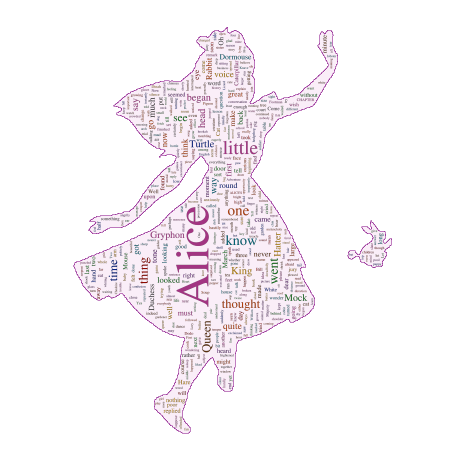
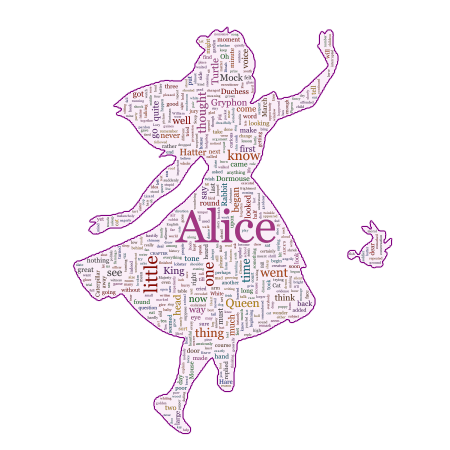
outline: normalize linewidth and smoothness

Changed region(s): [[0.1556, 0.0622, 0.7467, 0.9644], [0.7778, 0.4978, 0.8711, 0.5911]]

diff --git a/README.md b/README.md
@@ -32,7 +32,7 @@ wc = wordcloud(
     colors = :Set1_5,
     angles = (0, 90),
     density = 0.55) |> generate!
-paint(wc, "alice.png", ratio=0.5, background=outline(wc.mask, color="purple", linewidth=1))
+paint(wc, "alice.png", ratio=0.5, background=outline(wc.mask, color="purple", linewidth=2))
 ```
 *Run the command `runexample(:alice)` or `showexample(:alice)` to get the result.*  
 [![alice](res/alice.png)](./examples/alice.jl)
